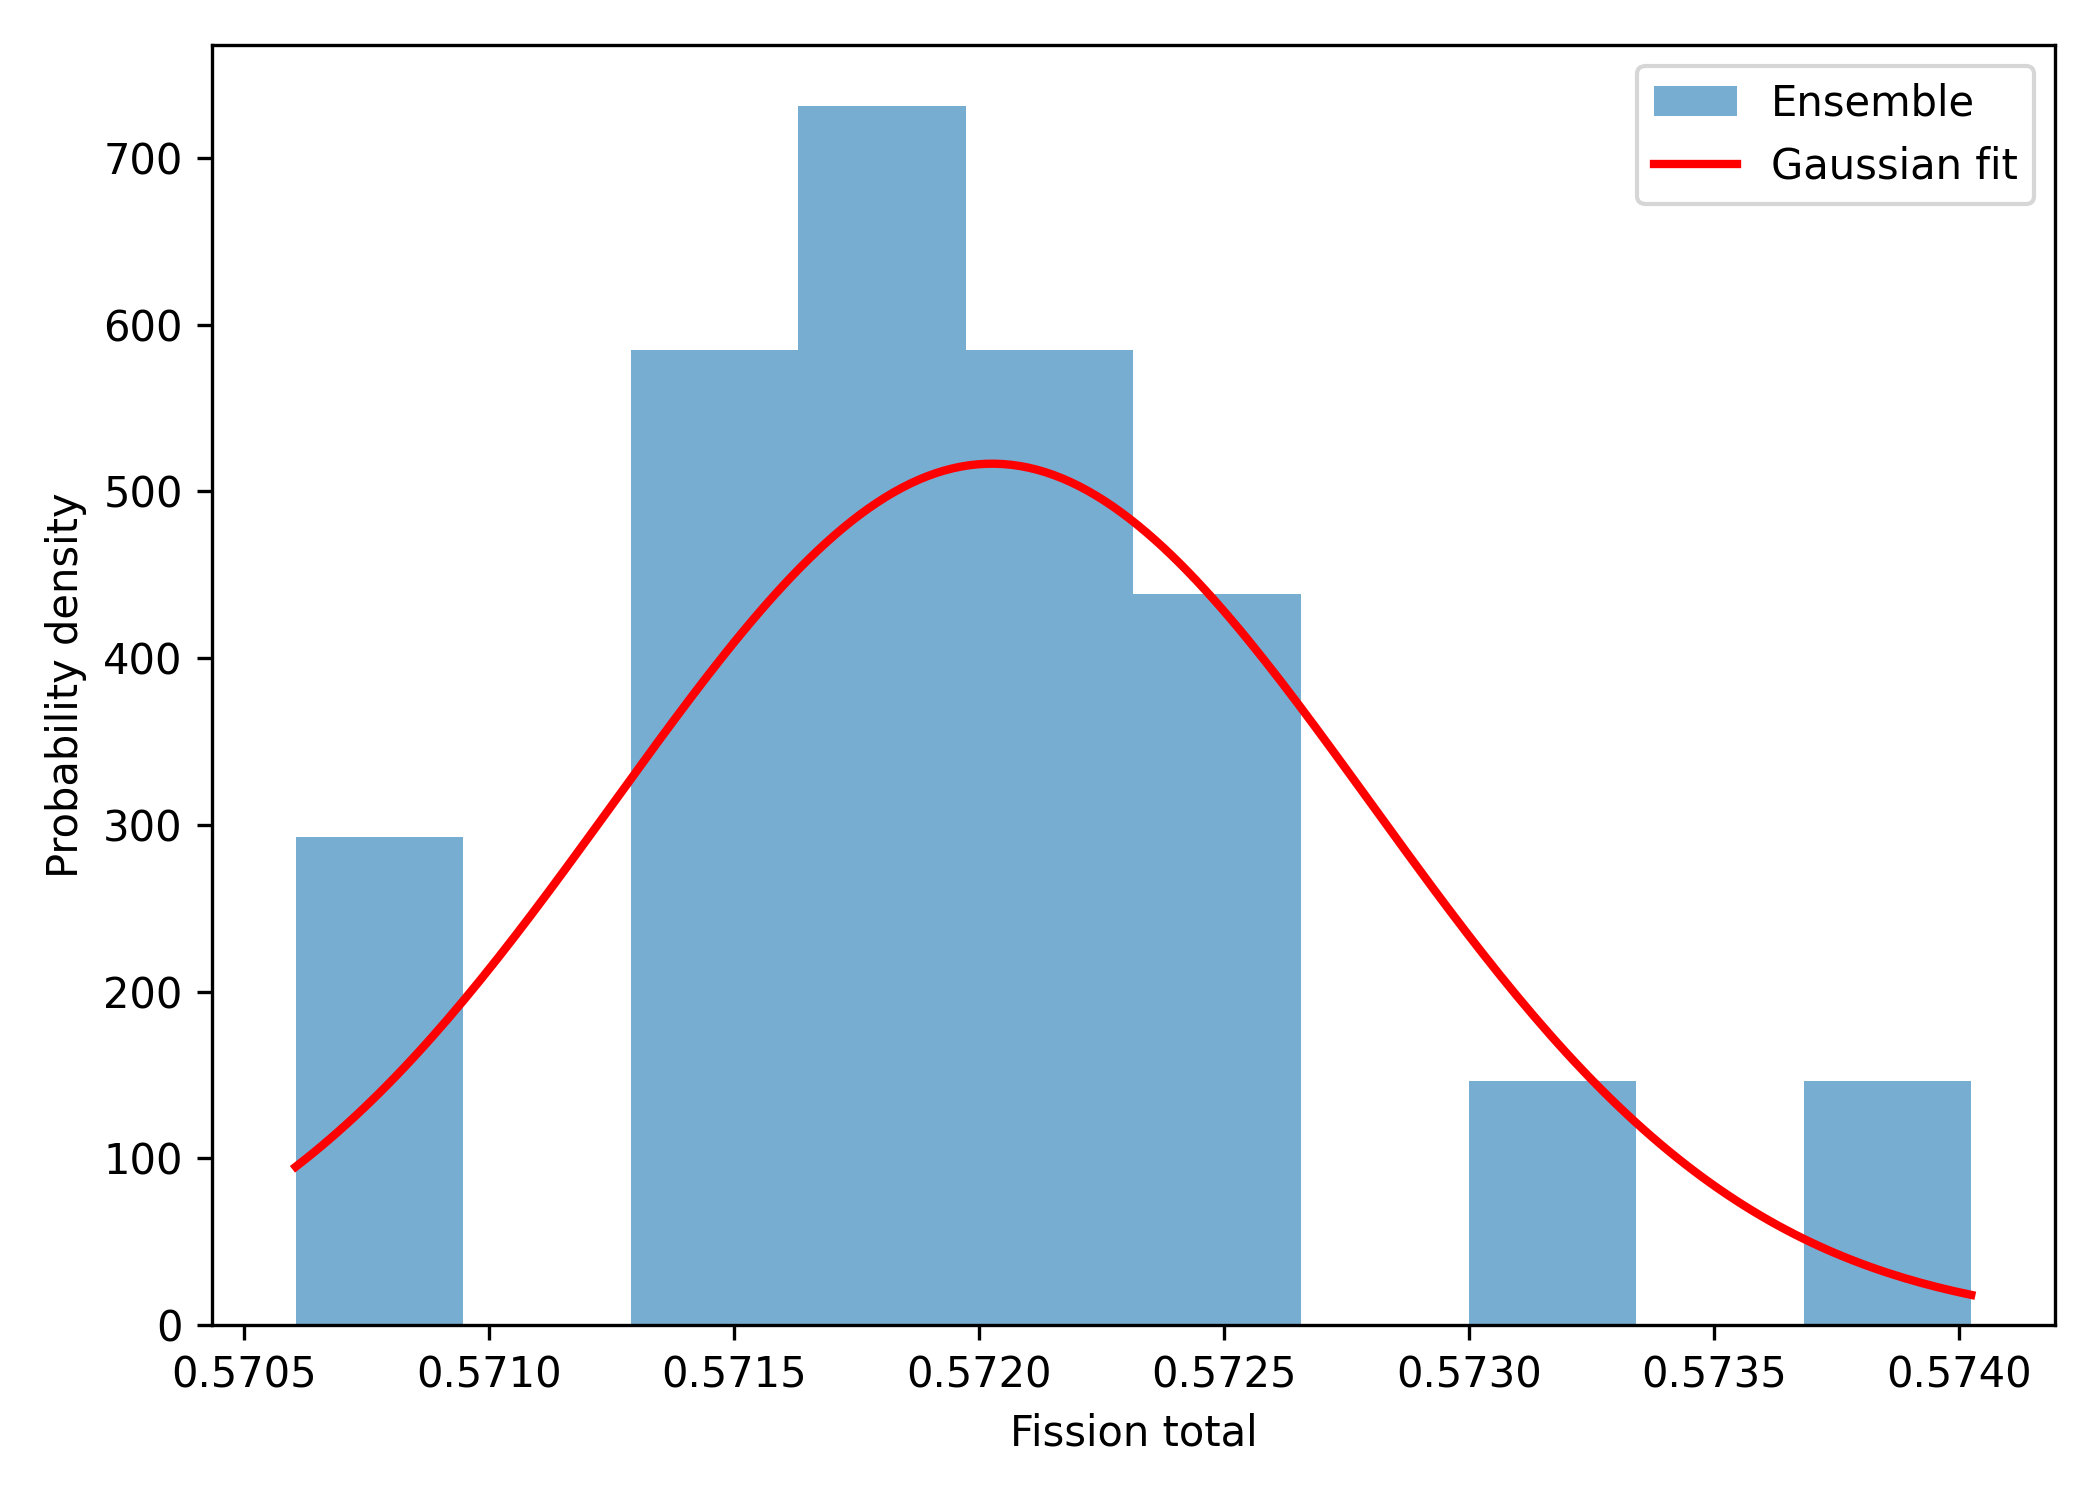
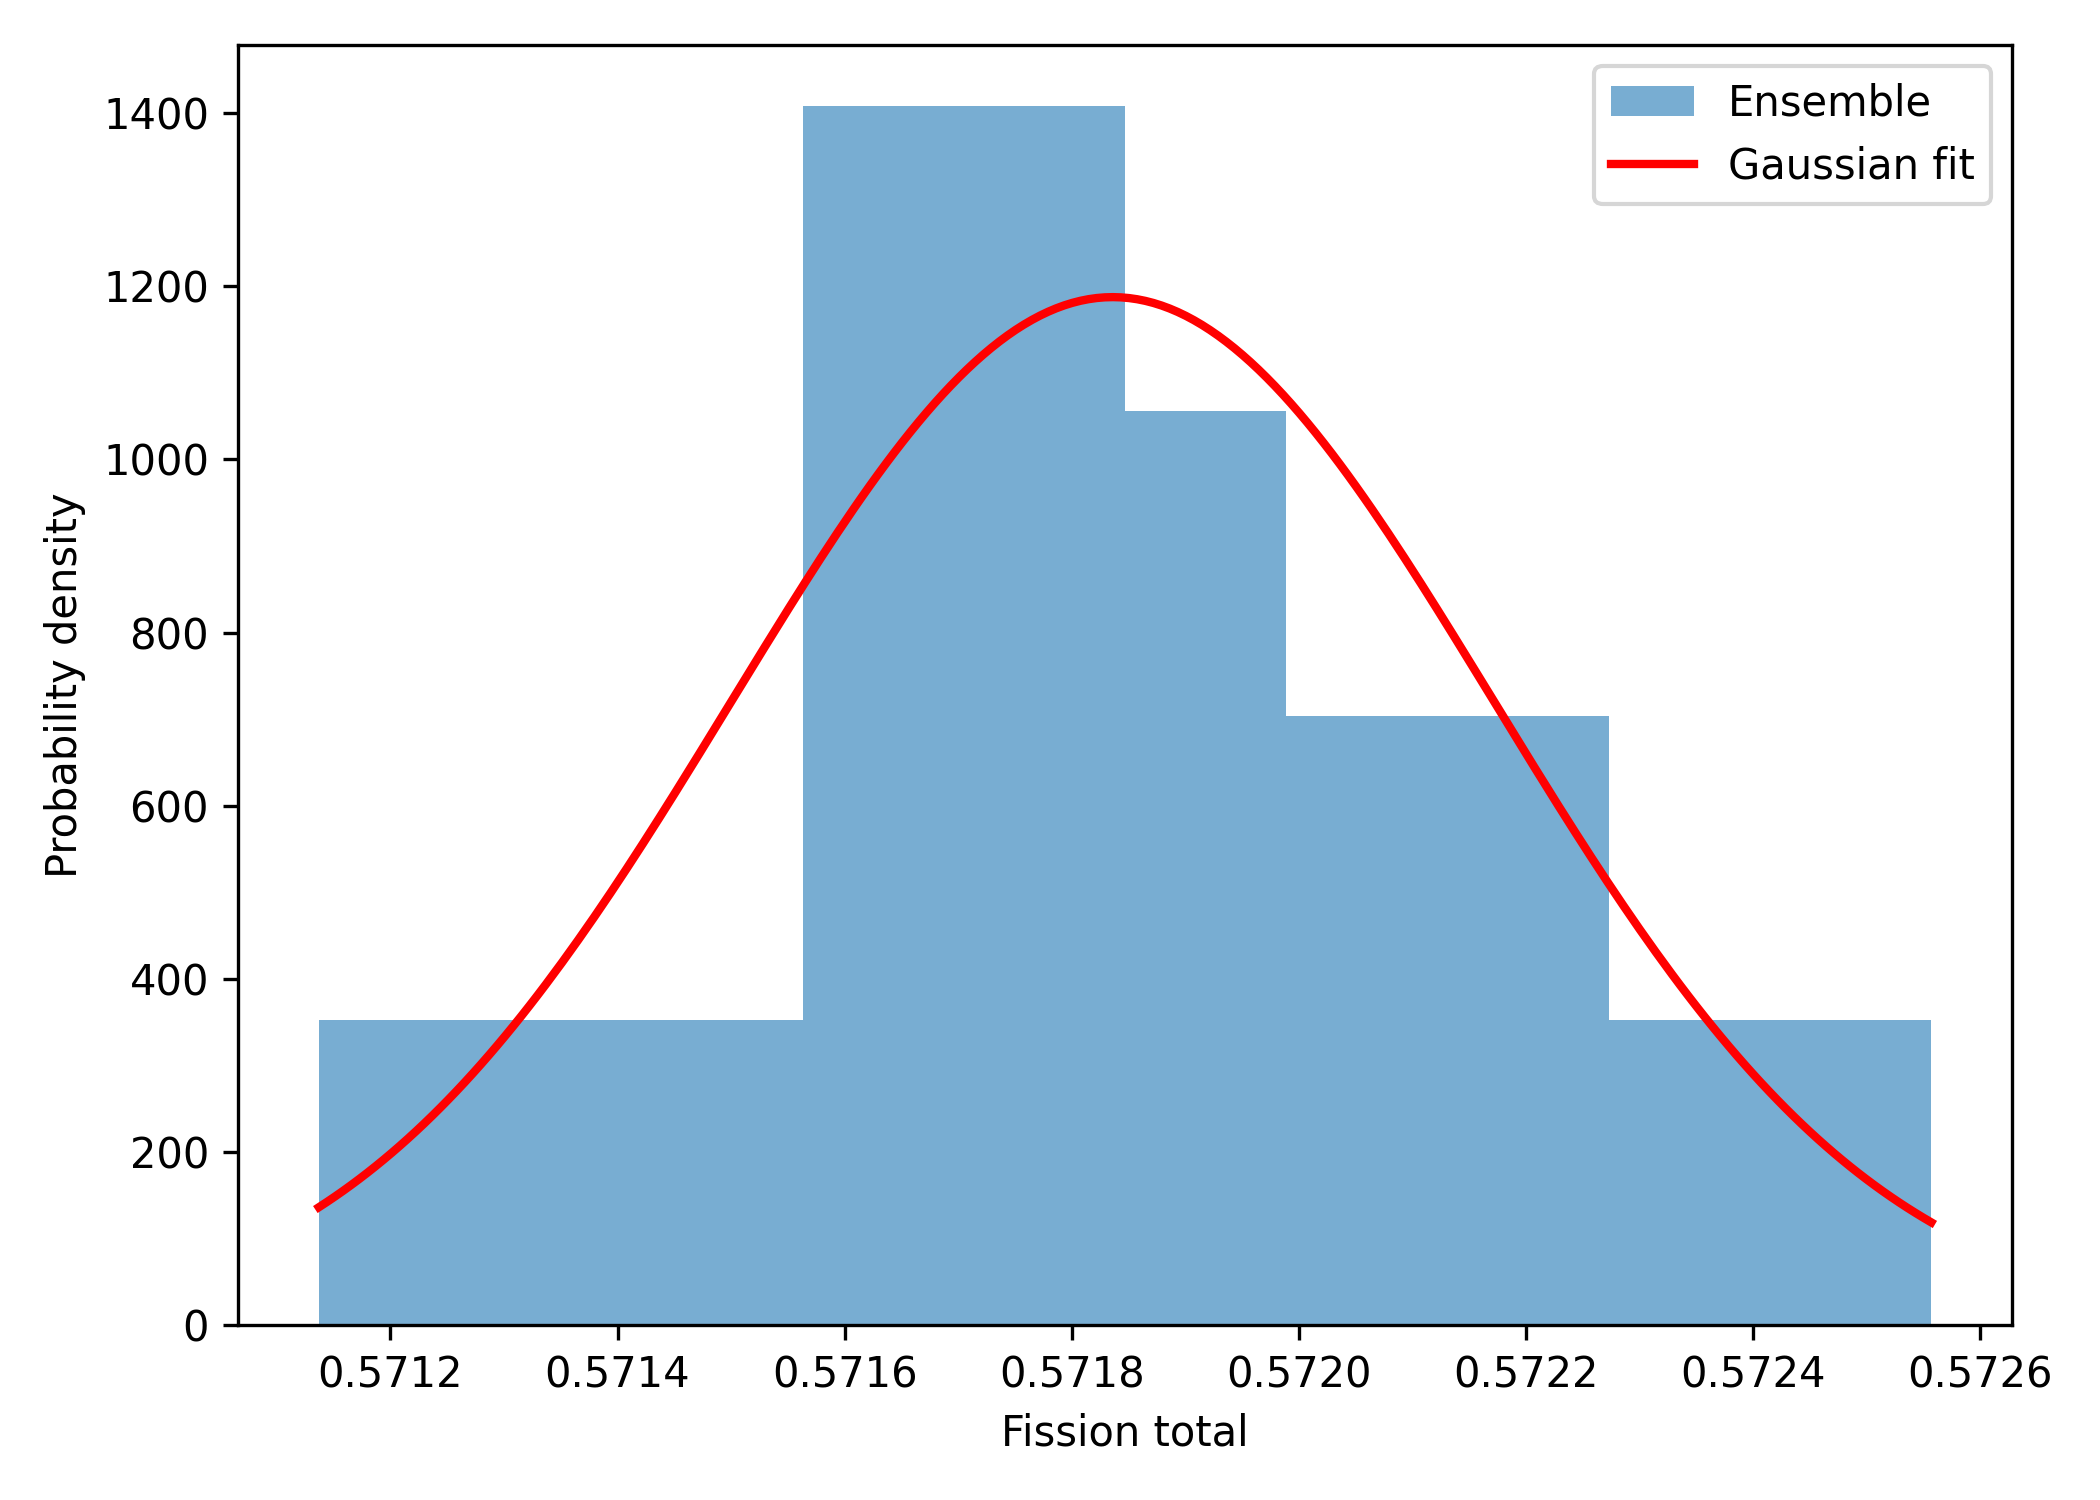
add calculations for heating tally

Changed region(s): [[0.031, 0.0307, 0.9905, 0.9813], [0.7429, 0.0307, 0.9905, 0.1533], [0.65, 0.3373, 0.681, 0.3987]]

diff --git a/Part_A_B/post_ratio.py b/Part_A_B/post_ratio.py
@@ -5,8 +5,10 @@ from pathlib import Path
 BASE_DIR = Path(__file__).resolve().parent
 runs_dir = BASE_DIR / "runs"
 
-values = []
-mc_sigmas = []
+f_values = []
+f_mc_sigmas = []
+h_values = []
+h_mc_sigmas = []
 times = []
 
 for run in sorted(runs_dir.glob("run_*")):
@@ -16,37 +18,60 @@ for run in sorted(runs_dir.glob("run_*")):
         continue
 
     sp = openmc.StatePoint(sp_file)
-    tally = sp.get_tally(scores=["fission"])
+    f_tally = sp.get_tally(scores=["fission"])
+    h_tally = sp.get_tally(scores=["heating"])
 
-    mean = tally.mean.sum()
-    std = np.sqrt((tally.std_dev**2).sum())
+    f_mean = f_tally.mean.sum()
+    f_std = np.sqrt((f_tally.std_dev**2).sum())
+    h_mean = h_tally.mean.sum()
+    h_std = np.sqrt((h_tally.std_dev**2).sum())
     
-    values.append(mean)
-    mc_sigmas.append(std)
+    f_values.append(f_mean)
+    f_mc_sigmas.append(f_std)
+    h_values.append(h_mean)
+    h_mc_sigmas.append(h_std)
+
     times.append(sp.runtime["simulation"])
 
-values = np.array(values)
-mc_sigmas = np.array(mc_sigmas)
+f_values = np.array(f_values)
+f_mc_sigmas = np.array(f_mc_sigmas)
+h_values = np.array(h_values)
+h_mc_sigmas = np.array(h_mc_sigmas)
 
 T = np.mean(times)
-val_mean = np.mean(values)
-val_std = np.std(values, ddof=1)
-rel_sigma = val_std / val_mean
+f_val_mean = np.mean(f_values)
+f_val_std = np.std(f_values, ddof=1)
+f_rel_sigma = f_val_std / f_val_mean
+h_val_mean = np.mean(h_values)
+h_val_std = np.std(h_values, ddof=1)
+h_rel_sigma = h_val_std / h_val_mean
 
-FoM = 1.0 / (rel_sigma**2 * T)
+f_FoM = 1.0 / (f_rel_sigma**2 * T)
+h_FoM = 1.0 / (h_rel_sigma**2 * T)
 
-M = len(values)
+M = len(f_values)
 
-sigma_ensemble = np.std(values, ddof=1)
-sigma_mc_mean  = np.mean(mc_sigmas)
+f_sigma_ensemble = np.std(f_values, ddof=1)
+f_sigma_mc_mean  = np.mean(f_mc_sigmas)
+h_sigma_ensemble = np.std(h_values, ddof=1)
+h_sigma_mc_mean  = np.mean(h_mc_sigmas)
 
-R = sigma_ensemble / sigma_mc_mean
+
+f_R = f_sigma_ensemble / f_sigma_mc_mean
+h_R = h_sigma_ensemble / h_sigma_mc_mean
 
 print(f"Number of runs: {M}")
-print(f"σ_ensemble = {sigma_ensemble:.4e}")
-print(f"mean σ_MC  = {sigma_mc_mean:.4e}")
-print(f"R = {R:.4f}")
-print(f"FoM = {FoM:.4f}")
-
-print(mean, std)
-print(std/mean)
+print(f"mean (fission rate)= {f_val_mean}")
+print(f"std (fission rate)= {f_val_std}")
+print(f"relative std (fission rate)= {f_rel_sigma}")
+print(f"σ_ensemble (fission rate)= {f_sigma_ensemble:.4e}")
+print(f"mean σ_MC (fission rate) = {f_sigma_mc_mean:.4e}")
+print(f"R (fission rate)= {f_R:.4f}")
+print(f"FoM (fission rate)= {f_FoM:.4f}\n")
+print(f"mean (heating)= {h_val_mean}")
+print(f"std (heating)= {h_val_std}")
+print(f"relative std (heating)= {h_rel_sigma}")
+print(f"σ_ensemble (heating)= {h_sigma_ensemble:.4e}")
+print(f"mean σ_MC (heating) = {h_sigma_mc_mean:.4e}")
+print(f"R (heating)= {h_R:.4f}")
+print(f"FoM (heating)= {h_FoM:.4f}")

diff --git a/Part_A_B/ensemble_analyse.py b/Part_A_B/ensemble_analyse.py
@@ -7,55 +7,72 @@ from scipy.stats import norm
 from pathlib import Path
 
 N_BATCH = 100
-N_PARTICLE = 10000
+N_PARTICLE = 50000
 
 SIZE = N_BATCH * N_PARTICLE
-runs_dir = Path(f"N={SIZE}/runs")
+runs_dir = Path("Part_A_B/runs")
 
-fission_vals = []
+f_means = []
+f_stds = []
+h_means = []
+h_stds = []
 times = []
 
 for run in sorted(runs_dir.glob("run_*")):
     df = pd.read_csv(run / "results.csv")
-    fission_vals.append(df["fission_total"].iloc[0])
+    f_means.append(df["fission_total_mean"].iloc[0])
+    f_stds.append(df["fission_total_std"].iloc[0])
+    h_means.append(df["heating_total_mean"].iloc[0])
+    h_stds.append(df["heating_total_std"].iloc[0])
 
     sp = openmc.StatePoint(run / "statepoint.100.h5")
     times.append(sp.runtime["simulation"])
 
-fission_vals = np.array(fission_vals)
+f_means = np.array(f_means)
+f_stds = np.array(f_stds)
+h_means = np.array(h_means)
+h_stds = np.array(h_stds)
 T = np.mean(times)
 
-mean = np.mean(fission_vals)
-std = np.std(fission_vals, ddof=1)
-rel_sigma = std / mean
+f_mean = np.mean(f_means)
+f_std = np.mean(f_stds)
+h_mean = np.mean(h_means)
+h_std = np.mean(h_stds)
 
-FoM = 1.0 / (rel_sigma**2 * T)
+f_rel_sigma = f_std / f_mean
+h_rel_sigma = h_std / h_mean
+f_FoM = 1.0 / (f_rel_sigma**2 * T)
+h_FoM = 1.0 / (h_rel_sigma**2 * T)
 
-print(f"N = {SIZE}")
-print(f"Ensemble mean = {mean:.4e}")
-print(f"Ensemble std  = {std:.4e}")
-print(f"Relative σ    = {rel_sigma:.4e}")
-print(f"FoM           = {FoM:.4e}")
+#print(f"N = {SIZE}")
+print(f"Ensemble mean (fission rate) = {f_mean:.4e}")
+print(f"Ensemble std (fission rate)  = {f_std:.4e}")
+print(f"Relative σ (fission rate)    = {f_rel_sigma:.4e}")
+print(f"FoM  (fission rate)          = {f_FoM:.4e}")
+print(f"Ensemble mean (heating) = {h_mean:.4e}")
+print(f"Ensemble std (heating)  = {h_std:.4e}")
+print(f"Relative σ (heating)    = {h_rel_sigma:.4e}")
+print(f"FoM  (heating)          = {h_FoM:.4e}")
 
 # --- histogram ---
 plt.figure(figsize=(7,5))
-plt.hist(fission_vals, bins=10, density=True, alpha=0.6, label="Ensemble")
+plt.hist(f_means, bins=10, density=True, alpha=0.6, label="Ensemble")
 
-x = np.linspace(fission_vals.min(), fission_vals.max(), 200)
-pdf = norm.pdf(x, mean, std)
+x = np.linspace(f_means.min(), f_means.max(), 200)
+pdf = norm.pdf(x, f_mean, f_std)
 plt.plot(x, pdf, 'r-', lw=2, label="Gaussian fit")
 
 plt.xlabel("Fission total")
 plt.ylabel("Probability density")
 plt.legend()
 plt.tight_layout()
-plt.savefig("results/ensemble_histogram.png", dpi=300)
+plt.savefig("Part_A_B/results/ensemble_histogram.png", dpi=300)
 plt.show()
 
 # --- ensemble size validation ---
 print("\nEnsemble size validation:")
 for M in [5, 10, 20]:
-    if len(fission_vals) >= M:
-        subset = fission_vals[:M]
+    if len(f_means) >= M:
+        subset = f_means[:M]
         std_M = np.std(subset, ddof=1)
         print(f"M={M:2d} → std = {std_M:.4e}")

diff --git a/Part_A_B/run_simulation_ensemble.py b/Part_A_B/run_simulation_ensemble.py
@@ -23,9 +23,10 @@ for i in range(N_RUNS):
     particle = N_PARTICLE
 
     # 1. Run OpenMC
+    sim_script = BASE_DIR / "simulation.py"
     sim_cmd = [
         sys.executable,
-        "simulation.py",
+        str(sim_script),
         "--seed", str(int(seed)),
         "--batch", str(int(batch)),
         "--particle", str(int(particle)),
@@ -43,9 +44,11 @@ for i in range(N_RUNS):
     statepoint = statepoints[0]
 
     # 3. Post-process this run
+    post_script = BASE_DIR / "post_run.py"
+
     post_cmd = [
         sys.executable,
-        "post_run.py",
+        str(post_script),
         "--statepoint", str(statepoint),
         "--out", str(outdir / "results.csv")
     ]
